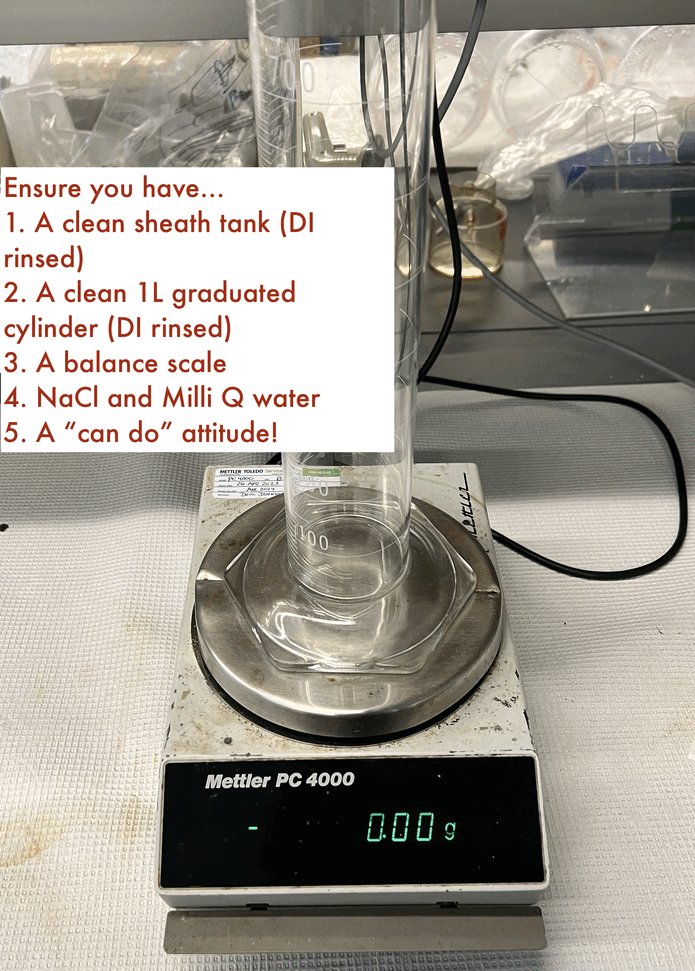
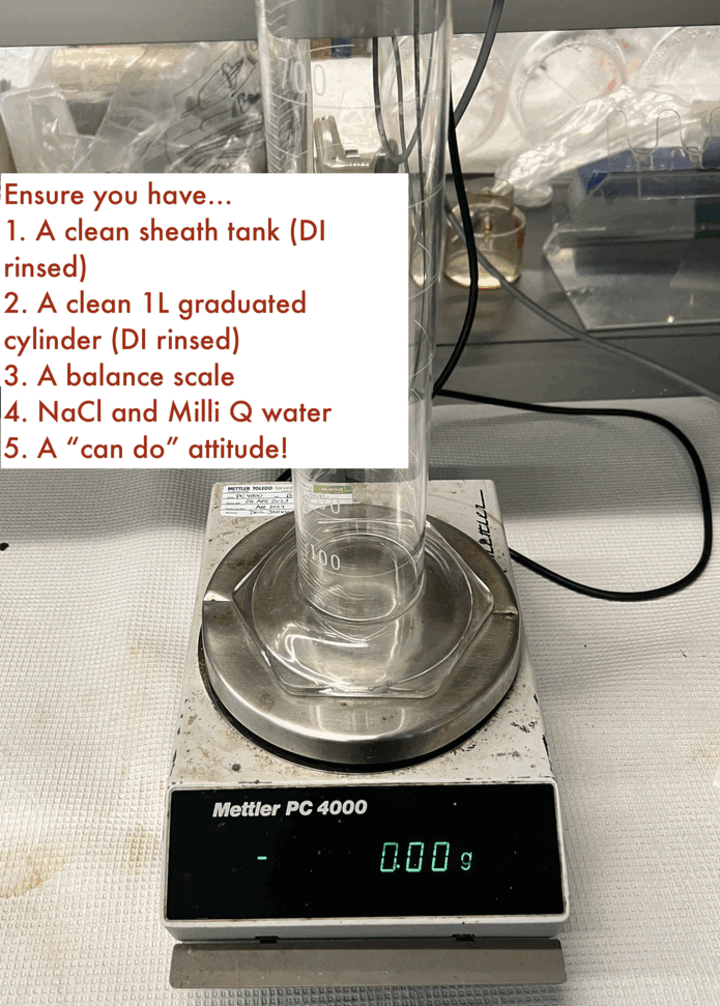
Shrinking png files, originals moved to local oversized-assets

diff --git a/docs/notemds/shellnotes.md b/docs/notemds/shellnotes.md
@@ -23,13 +23,50 @@ ls -a
 # Combine with -l
 ls -al
 ```
-
 Yes, the long form of the -a option in the ls command is --all. Both -a and --all have the same functionality of showing all files, including hidden ones.
 
 Need to add `code`
 ```bash
 nano ~/.bash_profile
 ```
+
+## Sending Output
+
+### Greater Than Symbol
+
+#### `>` (Single Greater Than):
+
+-   Explanation:
+  -   Used to redirect output and create a new file or overwrite an existing file with the output.
+  -   If the specified file does not exist, it will be created.
+  -   If the file already exists, its content will be replaced with the new output.
+  
+- Example:
+  ```shell
+  echo "Hello, World!" > output.txt
+  ```
+
+If `output.txt` exists, it will be overwritten with "Hello, World!". If it doesn't exist, a new file named `output.txt` will be created with "Hello, World!".
+
+#### `>>` (Double Greater Than):
+
+-   Explanation:
+    - Used to redirect output and append it to the end of an existing file.
+    - If the specified file does not exist, it will be created.
+    - If the file already exists, the new output will be added at the end without removing the existing content.
+
+-   Example:
+    ```shell
+    echo "Line 1" >> data.txt
+    echo "Line 2" >> data.txt
+    ```
+-   If data.txt exists with the content "Line 1", the second echo command will append "Line 2" to the file, resulting in:
+    ```txt
+    Line 1
+    Line 2
+    ```
+
+
 
 
 ## Working with BASH variables
@@ -209,3 +246,42 @@ umount /Users/eshim/mounts/AWlab
 # Disconnect from VPN
 networksetup -disconnectpppoeservice "JETT"
 ```
+
+---
+### Piping `tree` to text file
+
+I did a basic tree command and piped it to a text file
+`tree >> treefile.md`But when I preview the markdown file, it seems that no newline characters were included in the tree output. I want to know how do to fix this two options:
+1.  Use VSCode Regex find and replace on all lines simultaneously by finding the last letter on each line
+2.  Use some sort of simple bash scripting method to do the same thing
+
+#### Using VSCode Regex Find and Replace
+
+1.  Open the treefile.md in Visual Studio Code (VSCode).
+2.  Press Ctrl + H (or Cmd + H on macOS) to open the "Find and Replace" panel.
+3.  Enable the regex mode by clicking the .* button in the search bar (it will become .*).
+4.  In the "Find" field, enter the regex .$ to match the last character on each line.
+5.  In the "Replace" field, enter the regex \0\n to append the matched character with a newline.
+6.  Click the "Replace All" button to add newlines at the end of each line.
+
+#### Option 2: Using Bash and sed
+
+```bash
+#!/bin/bash
+
+# Save the tree output to a temporary file
+tree > temp_tree.txt
+
+# Use sed to add newlines at the end of each line
+sed -i '' 's/.$/&\'$'\r/g' temp_tree.txt
+
+# Move the modified tree to the final file
+mv temp_tree.txt treefile.md
+```
+Explanation:
+
+-   The script saves the tree output to a temporary file `temp_tree.txt`.
+-   `sed -i '' 's/.$/&\'$'\n/g' temp_tree.txt` adds a newline at the end of each line using `sed`. The regex `.$` matches the last character on each line, and `&\'$'\n` appends the matched character with a newline.
+-   Finally, the script renames the temporary file to `treefile.md`.
+
+Both options will add newline characters at the end of each line, making the tree output display correctly in the Markdown file.

diff --git a/docs/influx-flight/README.md b/docs/influx-flight/README.md
@@ -21,7 +21,28 @@ icon: book
 | *ITALICS CAPS*     | Instrument Display          | *Pinhole Camera* |
 | *Italics*          | Instrument Component?       | *Nozzle*         |
 
+### Container Highlights
 
+::: danger 
+A Danger box indicates something may seriously injur or kill the user.
+:::
+
+::: warning
+Warnings are for things that may damage the instrument, cause data loss, or serioudly inconvenience the user.
+:::
+
+
+::: note
+Notes highlight important steps or display useful images.
+:::
+
+::: tip
+Tips are for best practices
+:::
+
+::: details Details Dropdown Menu 
+Details are for troubleshooting or user's edification.
+:::
 
 ## Manual Outline
 

diff --git a/docs/influx-flight/flight-optics/flight-optics-final.md b/docs/influx-flight/flight-optics/flight-optics-final.md
@@ -12,6 +12,9 @@ icon: bullseye
 
 ## Full Alignment
 
+
+
+
 ### Align 488 Laser
 
 The 488nm Laser is the Primary laser for this Instrument. It is the only laser that passes through the filters on the FSC Detector Path.
